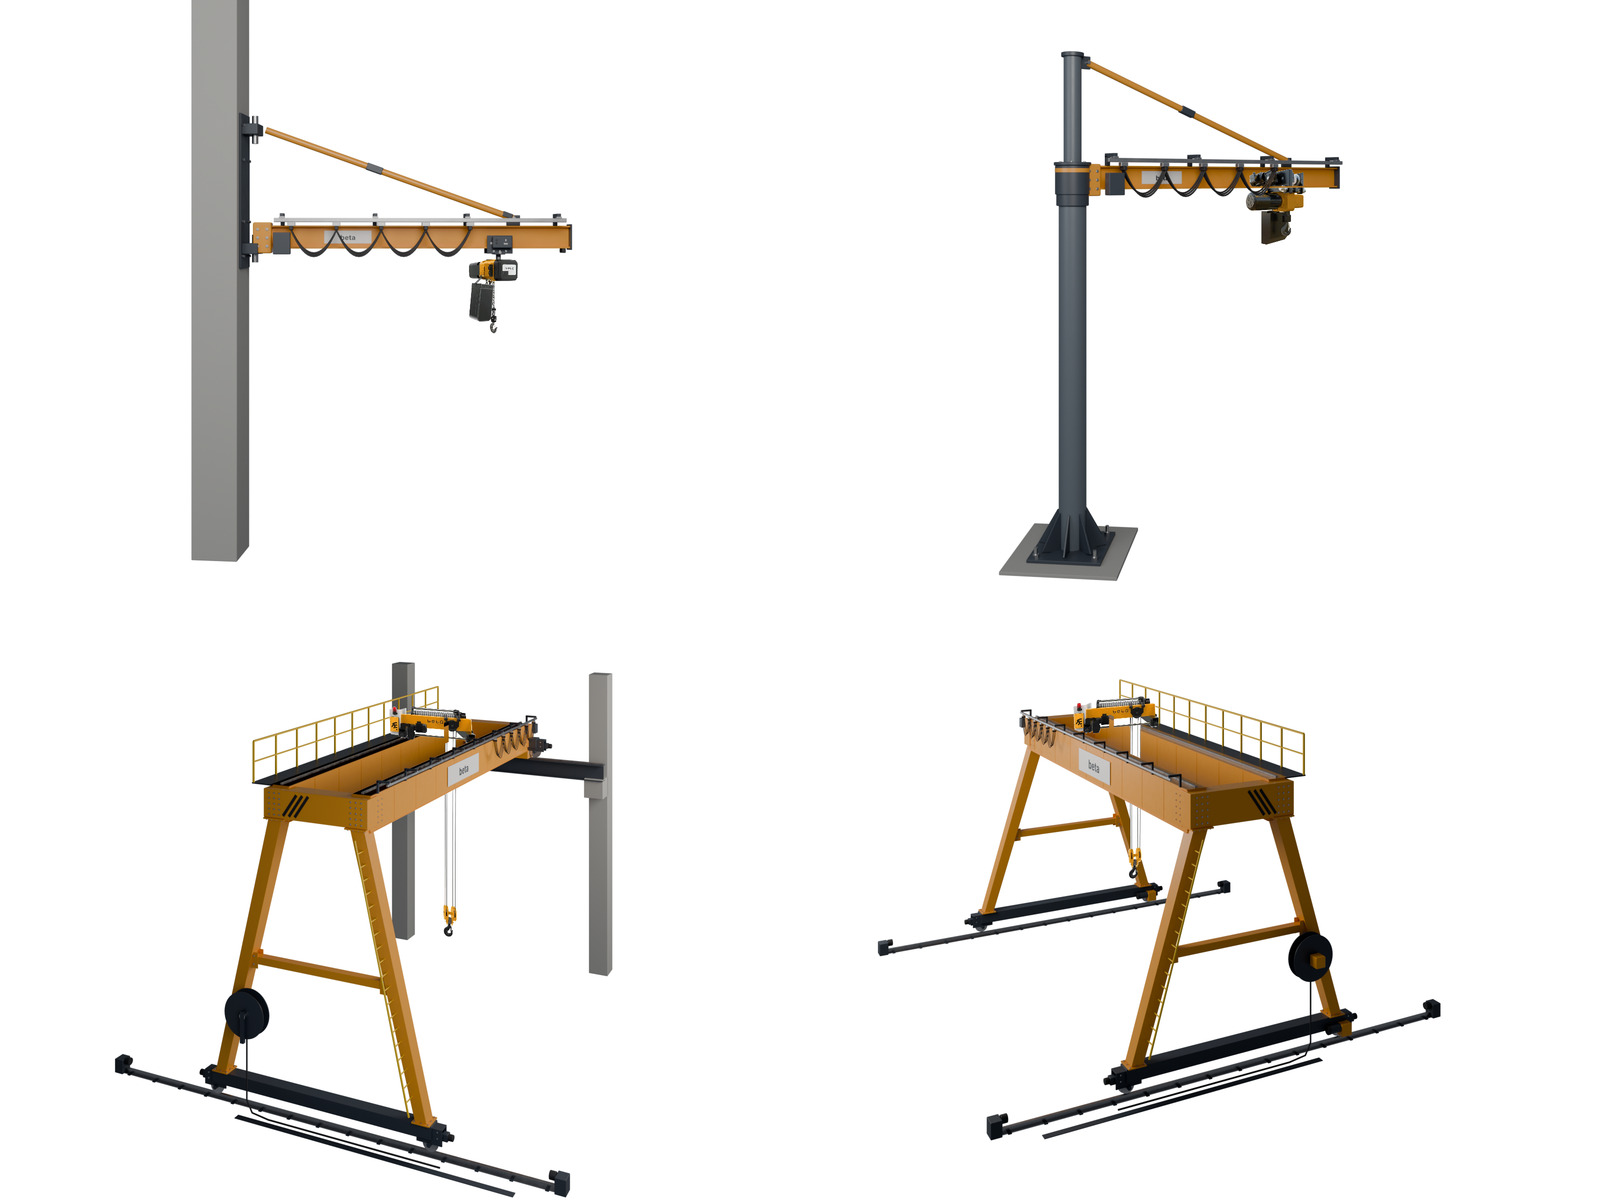
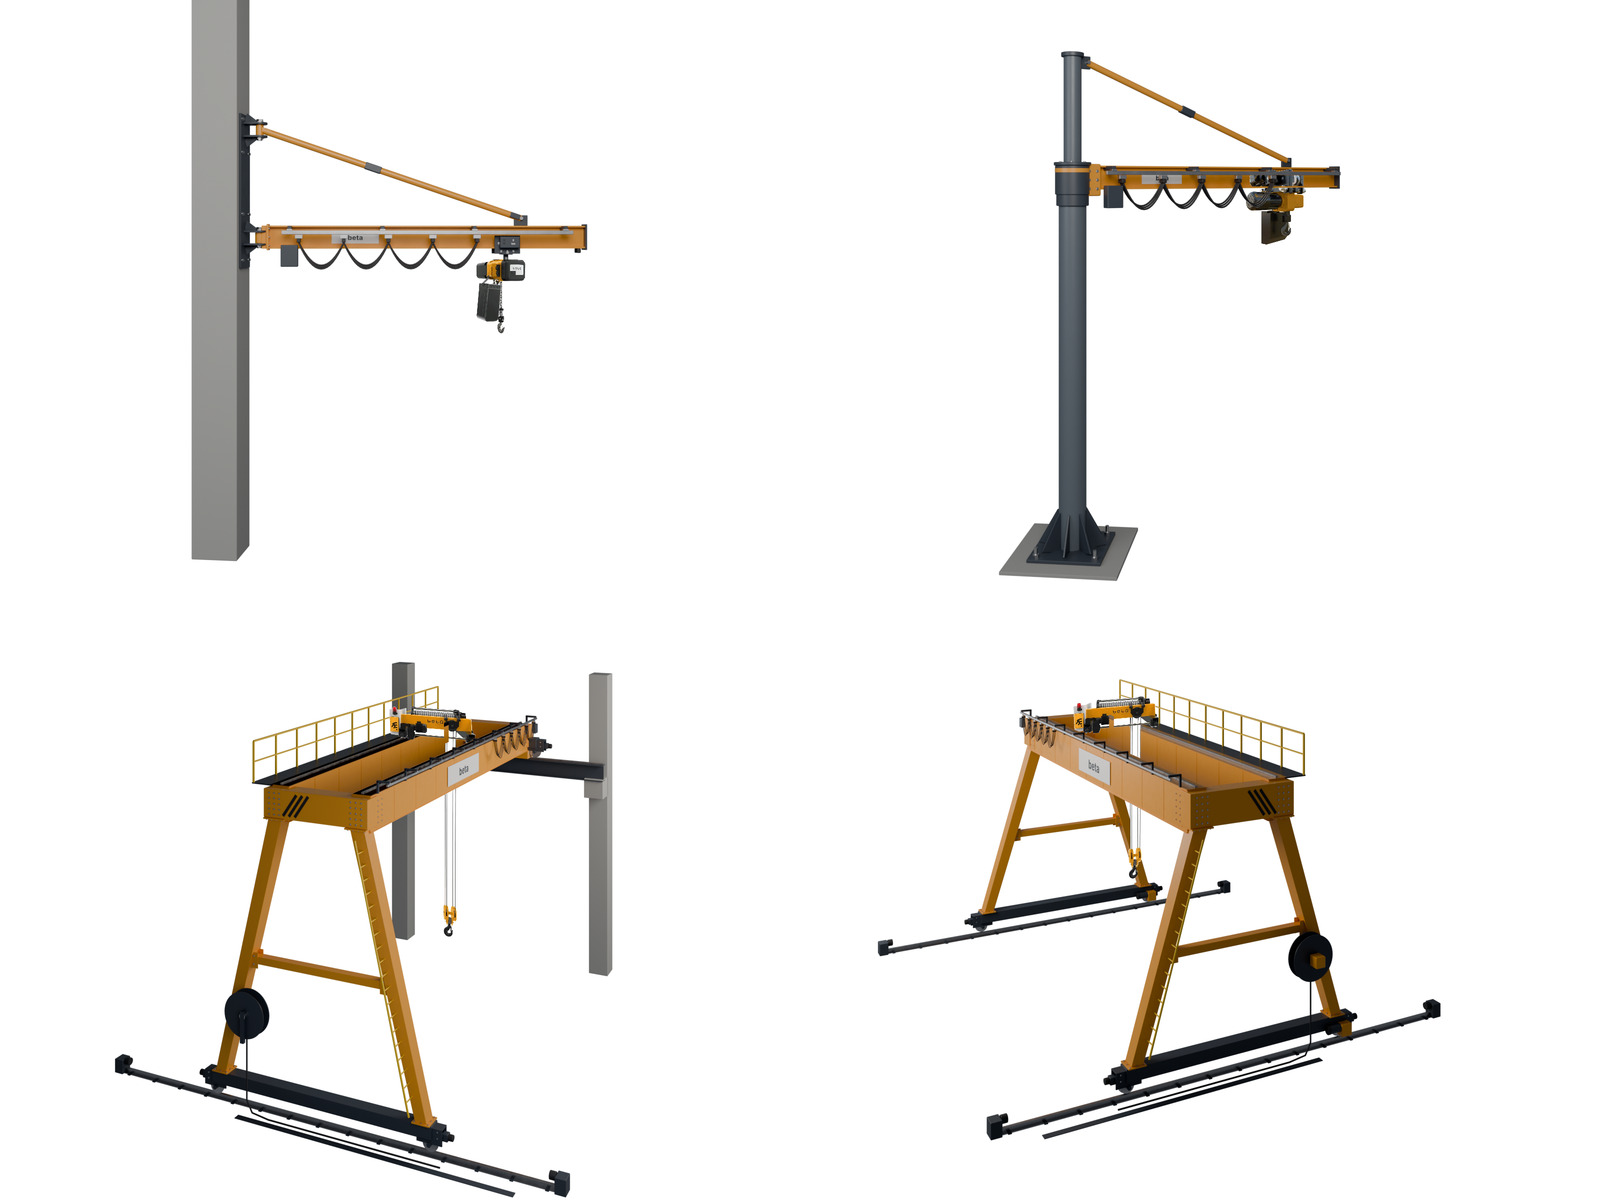
Pergel konsol bağlantıları düzeltildi: pim = dönme ekseni, kulak levhaları + göbek, festoon bom yanında
Claude-Session: https://claude.ai/code/session_01BwJWWo6Yo4AefWjfCSnerb

Changed region(s): [[0.1562, 0.1542, 0.375, 0.2775], [0.6875, 0.1233, 0.8438, 0.185], [0.1562, 0.0925, 0.1875, 0.1233]]

diff --git a/kaynak/render_vincler.py b/kaynak/render_vincler.py
@@ -992,37 +992,57 @@ def sahne_duvar_pergel(M):
     # bina betonarme kolonu
     beton = boya("beton_kolon", (0.36, 0.36, 0.345, 1), rough=0.85, var=0.1, bump=0.4)
     kutu("bina_kolon", (0.6, 0.6, 12.0), (-0.3, 0, 6.0), beton, bevel=0.01)
-    # dönen grup (mafsal ekseni x=0.12)
+    zb = 4.30  # bom üst kotu (IPE 300)
+    z_alt, z_ust = zb - 0.16, 5.55  # mafsal kotları: alt = bom kökü, üst = gergi başı
+    XP = 0.22  # mafsal (pim) ekseni = dönme ekseni
+    # dönen grup: orijini pim ekseninde
     SAPMA, YUKSEKLIK = 10, 0  # zincirli vinç fotoğrafının çekim açısı (soldan, yukarıdan; derece)
-    g = bos("pergel", (0.12, 0, 0), (0, 0, math.radians(SAPMA if YAN else 18)))
-    # duvar konsolu (sabit)
-    # üstten gergili: alt mafsal bom kökünde, üst mafsal bomun 1,3 m üstünde (alt flanş caraskal için serbest)
+    g = bos("pergel", (XP, 0, 0), (0, 0, math.radians(SAPMA if YAN else 18)))
+    # --- duvar konsolu (sabit): taban levhası, her mafsalda alt/üst kulak levhaları + guse, dikey pim
     kutu("konsol_plaka", (0.03, 0.42, 2.0), (0.015, 0, 4.75), M["antrasit"], bevel=0.004)
-    for z in (4.0, 5.55):
-        kutu(f"konsol_kulak{z}", (0.22, 0.30, 0.14), (0.12, 0, z), M["antrasit"], bevel=0.01)
-        silindir(f"pim{z}", 0.04, 0.36, (0.16, 0, z), M["celik"])
-    for zz in (3.9, 4.35, 5.15, 5.6):
+    for zz in (3.85, 4.45, 5.25, 5.68):
         for yy in (-0.15, 0.15):
-            silindir(f"civata{zz}{yy}", 0.018, 0.04, (0.04, yy, zz), M["celik"], axis="X", seg=6)
-    # bom (IPE 300)
-    zb = 4.30
-    ipe("bom", 0.12, 4.2, zb, 0.30, 0.15, M["turuncu"], g, tf=0.022, tw=0.011)
-    kutu("bom_kok", (0.24, 0.26, 0.40), (0.14, 0, zb - 0.16), M["turuncu"], g, bevel=0.02)
-    kutu("bom_uc", (0.02, 0.22, 0.34), (4.21, 0, zb - 0.15), M["antrasit"], g, bevel=0.004)
+            civata(f"ankraj{zz}{yy}", (0.03, yy, zz), "X", M, None, r=0.018)
+    for z in (z_alt, z_ust):
+        for sz in (-1, 1):
+            zl = z + sz * 0.085
+            kutu(f"kulak{z}{sz}", (XP - 0.03, 0.20, 0.025), ((0.03 + XP) / 2, 0, zl), M["antrasit"], None, bevel=0.003)
+            silindir(f"kulak_uc{z}{sz}", 0.10, 0.025, (XP, 0, zl), M["antrasit"], None, seg=48, bevel=0.003)
+            # guse: kulağı duvar levhasına bağlar (kulağın dış yüzünde)
+            uye(f"kulak_guse{z}{sz}", (0.03, 0, zl + sz * 0.075), (XP - 0.02, 0, zl + sz * 0.018), 0.02, 0.02, 0.13, 0.012,
+                M["antrasit"], None, up=Vector((0, 1, 0)), bevel=0.002)
+        silindir(f"pim{z}", 0.035, 0.27, (XP, 0, z), M["celik"], None, seg=32)
+        silindir(f"pim_pul{z}", 0.05, 0.012, (XP, 0, z + 0.104), M["celik"], None, seg=32)
+        silindir(f"pim_somun{z}", 0.045, 0.03, (XP, 0, z + 0.125), M["celik"], None, seg=6)
+        silindir(f"pim_bas{z}", 0.05, 0.02, (XP, 0, z - 0.107), M["celik"], None, seg=32)
+    # --- bom (dönen): kök göbeği pimin etrafında, guselerle bom alın levhasına
+    x0 = 0.11  # bom alın levhası (yerel)
+    silindir("kok_gobek", 0.058, 0.14, (0, 0, z_alt), M["turuncu"], g, seg=48, bevel=0.004)
+    for sy in (-1, 1):
+        kutu(f"kok_guse{sy}", (x0 - 0.03, 0.02, 0.30), ((x0 + 0.03) / 2, sy * 0.045, zb - 0.15), M["turuncu"], g, bevel=0.003)
+    kutu("bom_alin", (0.025, 0.22, 0.34), (x0, 0, zb - 0.15), M["turuncu"], g, bevel=0.003)
+    civata_izgara("bom_alin_c", (x0 + 0.016, 0, zb - 0.15), (0, 1, 0), (0, 0, 1), 2, 3, 0.15, 0.11, "X", M, g, r=0.012)
+    ipe("bom", x0 + 0.012, 4.3, zb, 0.30, 0.15, M["turuncu"], g, tf=0.022, tw=0.011)
+    kutu("bom_uc", (0.02, 0.22, 0.34), (4.31, 0, zb - 0.15), M["antrasit"], g, bevel=0.004)
     bom_logo(M, g, 1.25, zb)
     for sy in (-1, 1):
-        kutu(f"stoper{sy}", (0.05, 0.03, 0.06), (4.12, sy * 0.06, zb - 0.33), M["siyah"], g, bevel=0.01)
-    # gergi: üst mafsaldan bomun üst flanşındaki kulağa
+        kutu(f"stoper{sy}", (0.05, 0.03, 0.06), (4.22, sy * 0.06, zb - 0.33), M["siyah"], g, bevel=0.01)
+    # --- gergi: üst göbek (pim etrafında) + çatal, gerdirme, bom üst flanşındaki kulak
     xg = 3.45
-    boru("gergi", (0.18, 0, 5.55), (xg, 0, zb + 0.10), 0.042, M["turuncu"], g)
+    silindir("gergi_gobek", 0.05, 0.14, (0, 0, z_ust), M["turuncu"], g, seg=48, bevel=0.004)
+    p0 = Vector((0.06, 0, z_ust - 0.01))
+    p1 = Vector((xg, 0, zb + 0.10))
+    aci = math.atan2(p0.z - p1.z, p1.x - p0.x)
+    kutu("gergi_bas_catal", (0.16, 0.07, 0.06), (0.07, 0, z_ust - 0.005), M["turuncu"], g, bevel=0.008, rot=(0, aci, 0))
+    boru("gergi", p0, p1, 0.042, M["turuncu"], g)
+    pg = p0 + (p1 - p0) * 0.42
+    kutu("gergi_gerdirme", (0.22, 0.09, 0.09), tuple(pg), M["antrasit"], g, bevel=0.01, rot=(0, aci, 0))
     kutu("gergi_bom_kulak", (0.18, 0.03, 0.14), (xg, 0, zb + 0.07), M["antrasit"], g, bevel=0.006)
     silindir("gergi_bom_pim", 0.022, 0.12, (xg, 0, zb + 0.10), M["celik"], g, axis="Y")
-    kutu("gergi_catal", (0.14, 0.09, 0.07), (xg - 0.08, 0, zb + 0.14), M["antrasit"], g, bevel=0.01, rot=(0, math.radians(20), 0))
-    kutu("gergi_gerdirme", (0.22, 0.09, 0.09), (1.6, 0, 5.55 - (5.55 - zb - 0.1) * (1.42 / 3.27)), M["antrasit"], g, bevel=0.01,
-         rot=(0, math.atan2(5.55 - zb - 0.1, 3.27), 0))
-    civata_izgara("bom_kok_c", (0.14, -0.132, zb - 0.16), (1, 0, 0), (0, 0, 1), 2, 3, 0.12, 0.11, "-Y", M, g, r=0.013)
-    festoon("festoon", 0.3, 4.1, -0.27, zb + 0.07, 0.4, 3.25 - 0.42, M, g, n=5, L=1.1,
-            y_konsol=-0.07, z_konsol=zb, aralik=1.2)
+    kutu("gergi_uc_catal", (0.14, 0.09, 0.07), (xg - 0.08, 0, zb + 0.13), M["antrasit"], g, bevel=0.01, rot=(0, aci, 0))
+    # festoon bomun yanında, üst flanşın altında (bom üstü gergi kulağına serbest)
+    festoon("festoon", 0.3, 4.1, -0.23, zb - 0.09, 0.4, 3.25 - 0.42, M, g, n=5, L=1.1,
+            y_konsol=-0.02, z_konsol=zb - 0.022, aralik=1.2)
     # caraskal arabası 3B: tekerlekler bomun alt flanşında (ray); caraskal gövdesi ürün fotoğrafı, askıya asılı
     z_askı = monoray_araba("araba", 3.25, zb - 0.30, 0.15, 0.022, M, g)
     foto_vinc("zincirli_vinc_2ton.png", g, (3.25, 0, z_askı), 1.25, capa=0.60, dikey=0.0,
@@ -1086,8 +1106,8 @@ def sahne_kolon_pergel(M):
     for i in range(10):
         a_ = i * 2 * math.pi / 10
         civata(f"bilezik_c{i}", (0.192 * math.cos(a_), 0.192 * math.sin(a_), H + 0.14), "Z", M, None, r=0.012)
-    festoon("festoon", 0.35, 4.3, -0.27, zb + 0.07, 0.45, 3.45 - 0.45, M, g, n=5, L=1.1,
-            y_konsol=-0.07, z_konsol=zb, aralik=1.2)
+    festoon("festoon", 0.35, 4.3, -0.23, zb - 0.09, 0.45, 3.45 - 0.45, M, g, n=5, L=1.1,
+            y_konsol=-0.02, z_konsol=zb - 0.022, aralik=1.2)
     foto_vinc("kompakt_vinc.png", g, (3.45, 0, zb - 0.282), 1.10, capa=0.66, dikey=0.235,
               arkasinda=("festoon", "bom_alt"), eksen=(1, 0, 0),
               genislik_carpani=1 / math.cos(math.radians(SAPMA)))  # bomla aynı perspektif
